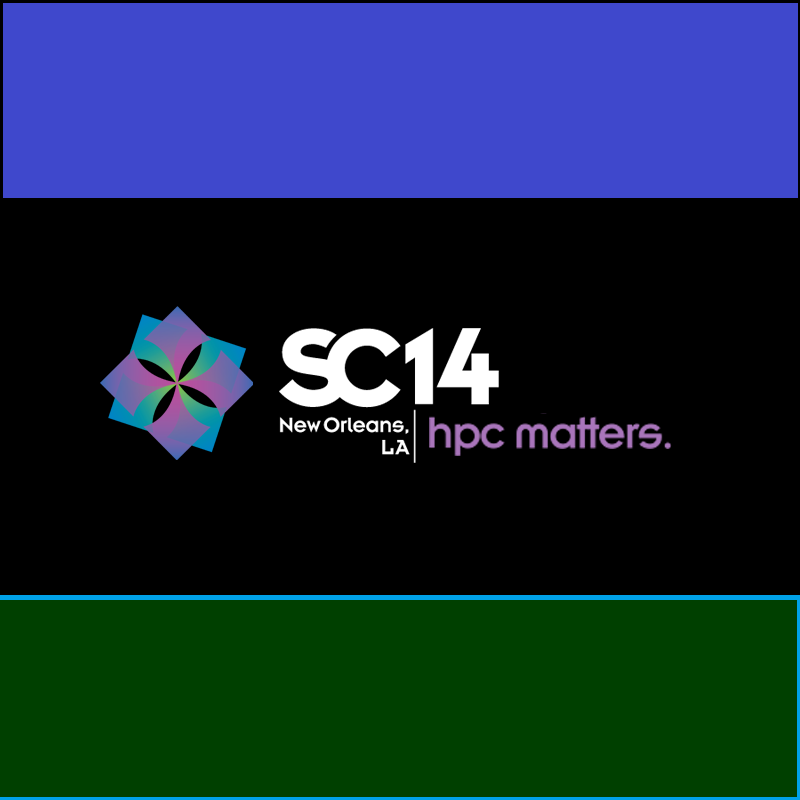
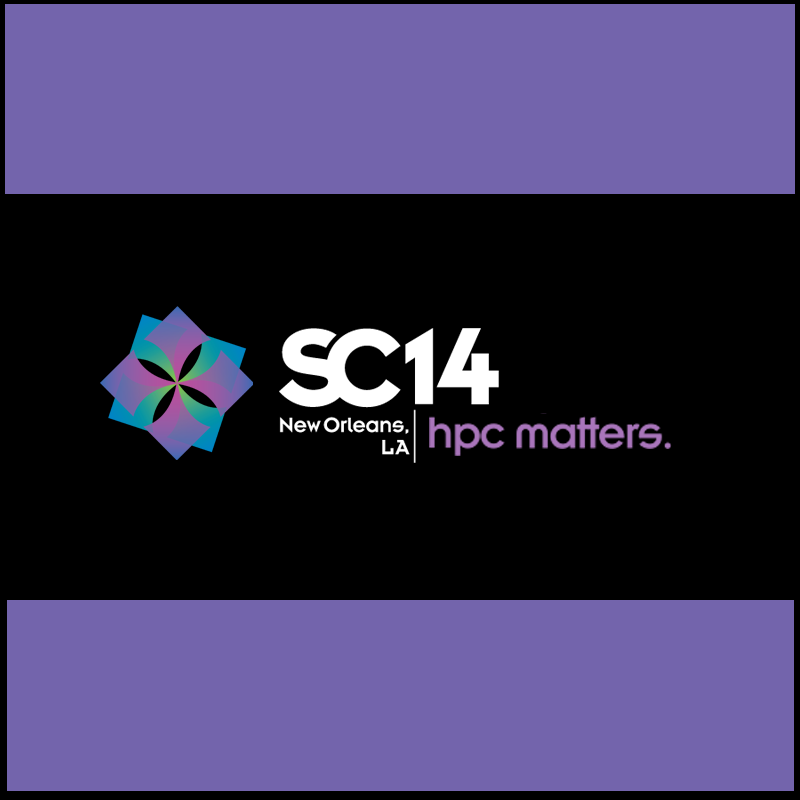
new background, colors, and node details, yay\!

diff --git a/simulation.py b/simulation.py
@@ -3,7 +3,7 @@ import random
 import math
 import os,sys
 from pygame.locals import *
-import csv 
+import csv,json
 if not pygame.font: print 'Warning, fonts disabled'
 pygame.font.init()
 #------------------------------------------------------------
@@ -54,16 +54,27 @@ class Particle():
 	def try_font(self):
 		if pygame.font:
 			font = pygame.font.Font(None, 17)
-			text = font.render("hey", 1, (10, 10, 200))
+			text = font.render("hey", 1, (10, 10, 10))
 			screen.blit(text, (self.x-9,self.y-5))
 
 	def display(self):
 		if self.state == "phone":
 			screen.blit(phone_image,(self.x-5,self.y-5))
 		else:
-			pygame.draw.circle(screen, self.colour, (int(self.x), int(self.y)), self.size, self.thickness)
+			pygame.draw.circle(screen, self.color_rule(), (int(self.x), int(self.y)), self.size, self.thickness)
 			if self.state == "engaged":
 				self.try_font()		
+	
+	def color_rule(self):
+		"""This should return what size to color the person based on desired attributes (fame, division, etc) """
+		#return tuple([i*(float(self.fame)/10.0) for i in self.colour])
+		if self.group == 1: 
+			return (255,0,0)
+		elif self.group == 2:
+			return (0,255,0)
+		elif self.group == 3:
+			return (0,0,255)
+	
 	
 	def get_goal(self,conferences):
 		""" sets self.goal """
@@ -139,12 +150,14 @@ class Particle():
 		if dist < self.size+p2.size+engage_distance:
 			self.bored = 0
 		#draw engagement from the difference between status. -> if higher status, engage, if not, engage with probability proportional to status
-			fame_diff = p2.fame - self.fame
+			affinity_score= p2.fame - self.fame
+			if self.group == p2.group:
+				affinity_score += affinity_parameter
 			if self.state == "phone":
-				fame_diff -= 1 #harder to engage someone when they're on the phone. 
-			if fame_diff > 0:
-				self.engage(p2)
-			elif -fame_diff < random.randrange(10):
+				affinity_score -= phone_penalty #harder to engage someone when they're on the phone. 
+			if affinity_score>= 0:
+				self.engage(p2)          #TO DO: make these more stochastic..
+			elif -affinity_score < random.randrange(friendly_parameter):
 				self.engage(p2)
 			else:
 				self.disengage()
@@ -200,6 +213,8 @@ screen = pygame.display.set_mode((width, height))
 pygame.display.set_caption('Conference Simulation by Nelson Auner')
 edges_data = []
 my_particles = []
+node_details = []
+
 # Initialize particles and the timestamps!
 for n in range(number_of_particles):
 	size = 10
@@ -210,8 +225,10 @@ for n in range(number_of_particles):
 	particle.speed = random.random()
 	particle.get_goal(conferences)
 	particle.fame = random.randrange(1,10)
+	particle.group = random.randrange(1,number_of_groups+1)
 	my_particles.append(particle)
-	
+	node_details.append({"id" : n, "group" : particle.group, "fame" : particle.fame})
+print(node_details)
 
 
 running = True
@@ -248,4 +265,8 @@ while running:
 with open(file_dir+"\ConferenceSimulation.csv", "wb") as f:
 	writer = csv.writer(f)
 	writer.writerows(engage_list)
+	f.close()
+	
+with open(file_dir+"\Node_Data.json", "wb") as f:
+	f.write(json.dumps(node_details))
 	f.close()

diff --git a/parameters.py b/parameters.py
@@ -12,11 +12,14 @@ elasticity = 1
 #create conferences here. 
 conferences = False
 tolerance = 20 #How close to be to assigned goal to register (in pixels..) 
-prob_phone = .5  #probability of using phone vs. roaming the conference, if spontaneously get bored
-prob_roam_to_phone = .01  #if roaming, spontaneously use phone? 
-prob_phone_to_roam = .1  #if on phone, probability to stop?
+prob_phone = .4  #probability of using phone vs. roaming the conference, if spontaneously get bored
+prob_roam_to_phone = .002  #if roaming, spontaneously use phone? 
+prob_phone_to_roam = .001  #if on phone, probability to stop?
 duration_phone = 5 #not used..
 walking_speed = 5
 engage_distance = 1.5 # (distance required to engage)
-number_of_particles = 20
-edges_data = []
+number_of_particles = 150
+phone_penalty = 5 #harder to talk to someone when you're on the phone
+friendly_parameter = 5 #the higher it is, the more likely you are to talk to someone less famous/outside of your group
+number_of_groups = 3
+affinity_parameter = 5 #talk to your group, mostly

diff --git a/convertor.py b/convertor.py
@@ -23,7 +23,6 @@ def find_two(lst, key, value):
 			return i
 	return -1
 
-
 def add_to_node_list(id_number):
 	index = find(node_list,"id",id_number)
 	if index >= 0:
@@ -37,7 +36,6 @@ def add_to_edge_list(row):
 		edge_list[index]['timestamps'].append(row[2])
 	else:
 		edge_list.append({'id1':row[0],'id2':row[1],'timestamps':[row[2]]})
-
 
 def main(argv):
 	inputfile = ''
